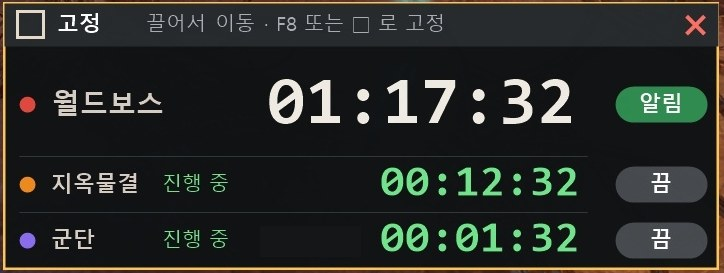
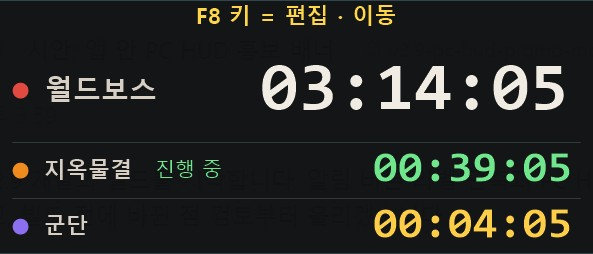
3.0 (52): real locked-state HUD capture in PC promo sheet (#69)
Claude-Session: https://claude.ai/code/session_01YU3rbXXhDB1cTuqxPjN8ke

Changed region(s): [[0.0, 0.0, 1.0, 1.0], [0.2125, 0.8268, 0.3339, 0.9094], [0.1518, 0.1378, 0.1821, 0.1654]]

diff --git a/app/src/main/assets/index.html b/app/src/main/assets/index.html
@@ -1777,6 +1777,7 @@ const WHATS_NEW = {
   "2.5": ["클랜 모집이 생겼어요. 홈의 클랜 줄을 누르면 같이 보스 잡을 클랜을 찾을 수 있어요.",
     "클랜장이라면 [우리 클랜 등록]으로 직접 올릴 수 있어요. 베타 기간에는 무료예요.",
     "관심 클랜을 담으면 그 클랜 일정이 전체 일정에 함께 보여요."],
+  "3.0": ["PC 프로그램 안내 시트에 실제 타이머 화면이 보여요."],
   "2.9": ["알람 버튼 글자가 잘리지 않게 [다음 회까지] [이번 회만] [끄기]로 짧아졌어요.",
     "홈 맨 위에 PC 프로그램 안내가 생겼어요. 게임 화면 위에 보스 타이머를 띄울 수 있어요."],
   "2.8": ["알람 버튼이 [끄기] [이번 회 건너뛰기] [다음 회까지 건너뛰기]로 바뀌어 뜻이 더 분명해졌어요.",

diff --git a/play/3.0-changes.md b/play/3.0-changes.md
@@ -1,0 +1,10 @@
+# 3.0 (versionCode 52) — 출시 노트 (플레이 콘솔 '이 버전의 새로운 기능'에 붙여넣기)
+
+<ko-KR>
+- PC 프로그램 안내 시트에 실제 타이머 화면(고정 상태)을 보여줘요.
+</ko-KR>
+
+## 2.9 대비 변경
+- PC 홍보 시트의 이미지: 빈 칸으로 보이던 목업 → 실제 HUD 고정 상태 캡처(앱 에셋, 오프라인 표시)
+- 기능·권한 변경 없음
+## 업로드: 2.9와 같은 순서 (Alpha 트랙 → 새 버전 → d4-boss-alarm-3.0.aab → 노트 붙여넣기 → 출시)
